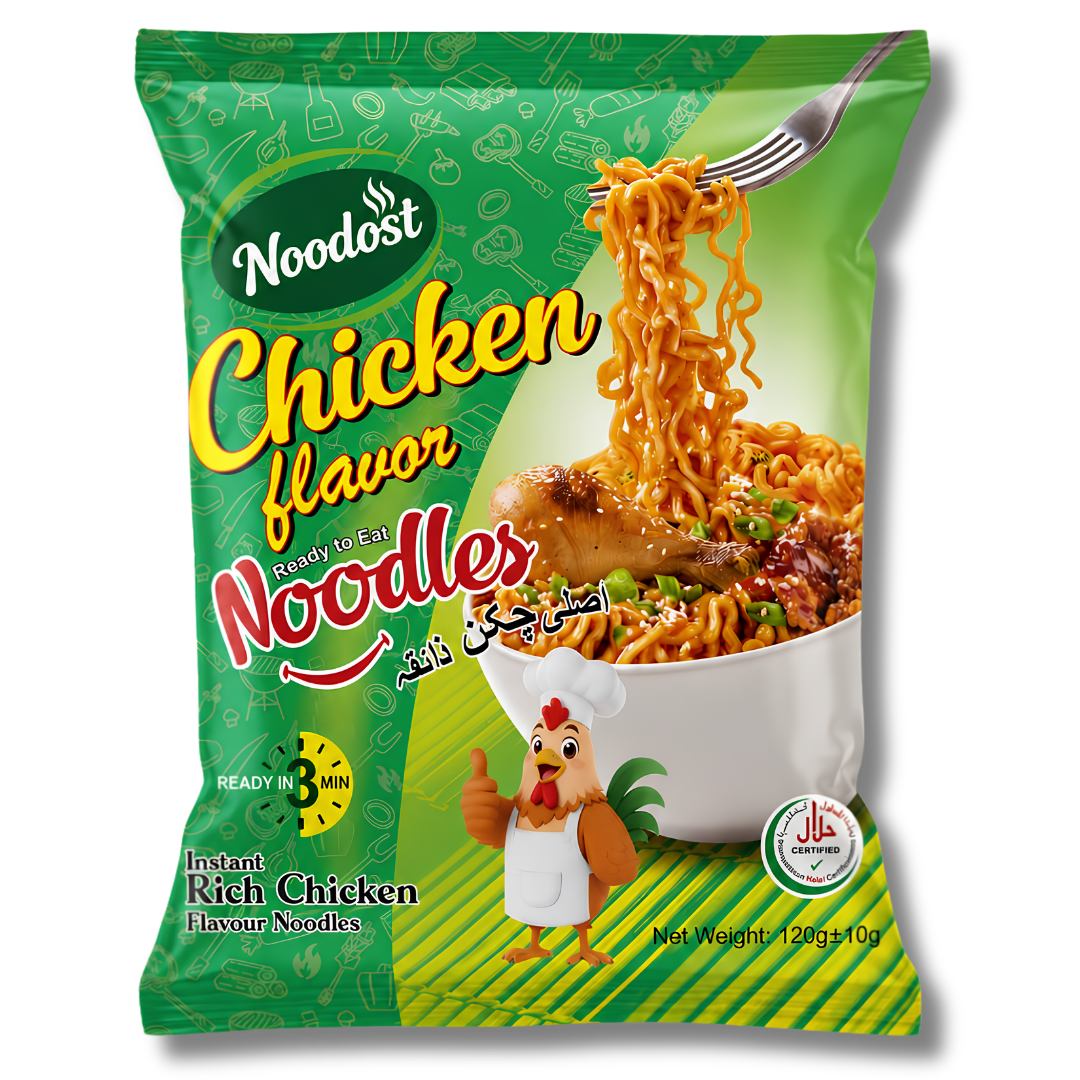
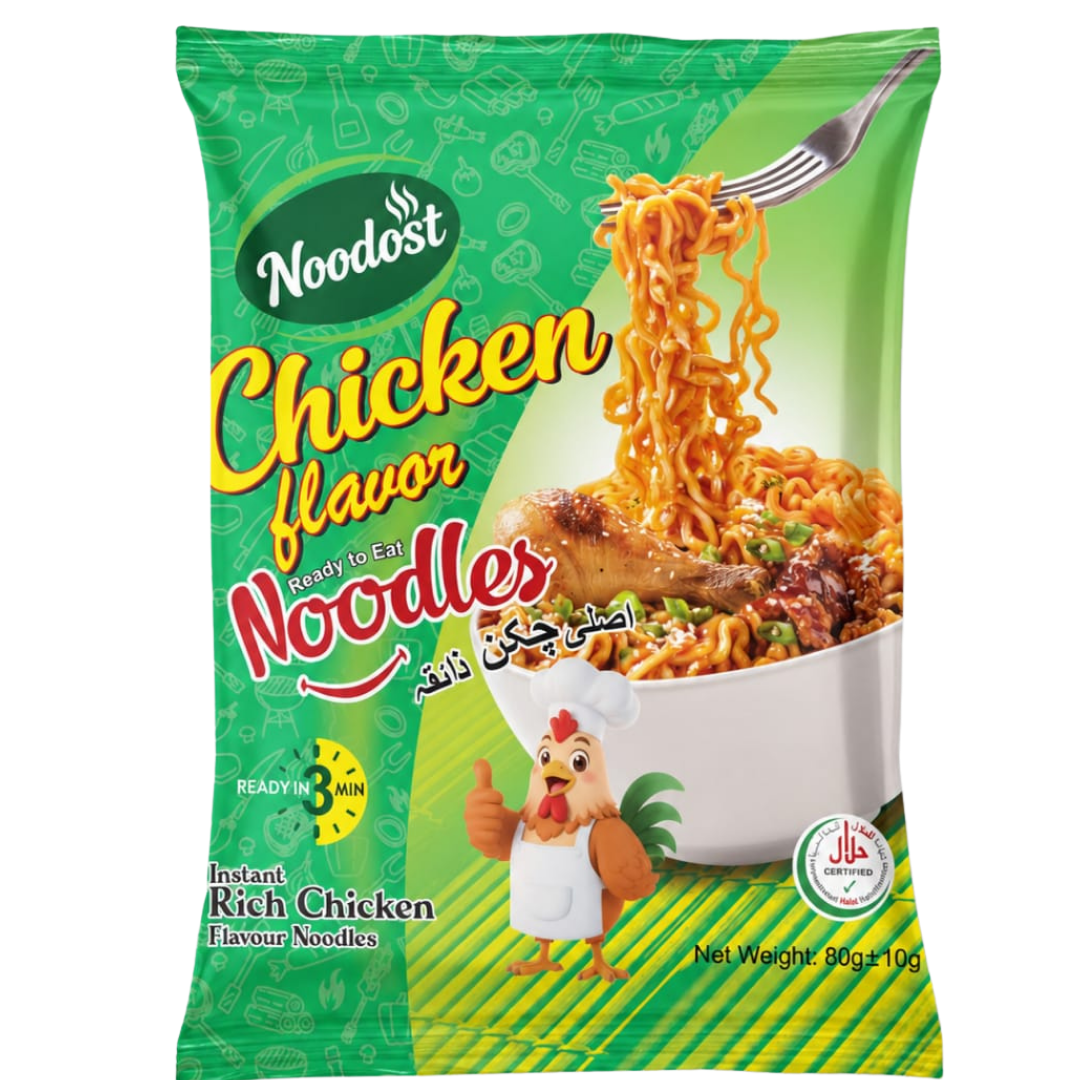
add more products

diff --git a/src/lib/products.ts b/src/lib/products.ts
@@ -34,13 +34,17 @@ import worldChickenImg from "@/assets/world-chicken.jpg";
 import worldBeefImg from "@/assets/world-beef.jpg";
 import worldSpicyImg from "@/assets/world-spicy.jpg";
 import productSpicyImg from "@/assets/product-spicy.png";
-// import noodostChickenAsset from "@/assets/noodost-spicy-chicken.png.asset.json";
-// import noodostBeefAsset from "@/assets/noodost-spicy-beef.png.asset.json";
 import noodostChickenAsset from "@/assets/noodost-spicy-chicken.png";
 import noodostBeefAsset from "@/assets/noodost-spicy-beef.png";
 import chickenFlavorAsset from "@/assets/noodost-chicken-flavor.png";
 import spicyCurryAsset from "@/assets/noodost-spicy-curry.png";
 import beefFlavorAsset from "@/assets/noodost-beef-flavor.png";
+import spicyCurryAsset120g from "@/assets/noodost-spicy-curry_120g.png";
+import beefFlavorAsset120g from "@/assets/noodost-beef_120g.png";
+import chickenFlavorAsset120g from "@/assets/noodost-chicken_120g.png";
+import noodostBeefAsset120g from "@/assets/noodost-spicy-beef_120g.png";
+import noodostChickenAsset120g from "@/assets/noodost-spicy-chicken_120g.png";
+
 
 export const FLAVORS: Record<FlavorSlug, Flavor> = {
   chicken: {
@@ -94,14 +98,15 @@ export const FLAVOR_LIST: Flavor[] = [FLAVORS.chicken, FLAVORS.beef, FLAVORS.spi
 
 export const PRODUCTS: Product[] = [
   { slug: "spicy-chicken-noodles", flavor: "chicken", name: "Spicy Chicken Noodles", blurb: "Instant rich chicken flavour noodles — ready in 3 minutes. 80g pack.", price: 80, image: noodostChickenAsset, badge: "Most Loved" },
-  { slug: "spicy-beef-noodles", flavor: "beef", name: "Spicy Beef Noodles", blurb: "Instant rich beef flavour noodles — ready in 3 minutes. 80g pack.", price: 80, image: noodostBeefAsset, badge: "New" },
-  // { slug: "chicken-family-pack", flavor: "chicken", name: "Spicy Chicken Family Pack", blurb: "A family-size bundle of our chicken noodles.", price: 280, image: noodostChickenAsset, comingSoon: true },
-  // { slug: "beef-family-pack", flavor: "beef", name: "Spicy Beef Family Pack", blurb: "Boss-level savoury noodles in a family bundle.", price: 280, image: noodostBeefAsset, comingSoon: true },
-  // { slug: "rocket-fuel-cup", flavor: "spicy", name: "2X Spicy Masala Noodles", blurb: "Three-alarm spice with a smoky finish.", price: 60, image: productSpicyImg, comingSoon: true },
-  // { slug: "volcano-mega-pack", flavor: "spicy", name: "Volcano Mega Pack", blurb: "Six bowls of fiery, slurpable adventure.", price: 320, image: productSpicyImg, comingSoon: true },
-  { slug: "chicken-flavor-noodles", flavor: "chicken", name: "Rich Chicken Flavor Noodles", blurb: "Classic rich chicken flavour — 120g family pack. Ready in 3 minutes.", price: 80, image: chickenFlavorAsset, comingSoon: true },
+  { slug: "spicy-beef-noodles", flavor: "beef", name: "Spicy Beef Noodles", blurb: "Instant rich beef flavour noodles — ready in 3 minutes. 80g pack.", price: 80, image: noodostBeefAsset, badge: "Most loved" },
+  { slug: "spicy-chicken-noodles-120g", flavor: "chicken", name: "Spicy Chicken Noodles", blurb: "Instant rich chicken flavour noodles — ready in 3 minutes. 120g pack.", price: 120, image: noodostChickenAsset120g, badge: "Most Loved" , comingSoon: true },
+  { slug: "spicy-beef-noodles_120g", flavor: "beef", name: "Spicy Beef Noodles", blurb: "Instant rich beef flavour noodles — ready in 3 minutes. 120g pack.", price: 120, image: noodostBeefAsset120g, badge: "Most loved", comingSoon: true  },
+  { slug: "chicken-flavor-noodles", flavor: "chicken", name: "Rich Chicken Flavor Noodles", blurb: "Classic rich chicken flavour — 80g family pack. Ready in 3 minutes.", price: 80, image: chickenFlavorAsset, comingSoon: true },
+  { slug: "chicken-flavor-noodles-120g", flavor: "chicken", name: "Rich Chicken Flavor Noodles", blurb: "Classic rich chicken flavour — 120g family pack. Ready in 3 minutes.", price: 120, image: chickenFlavorAsset120g, comingSoon: true },
   { slug: "beef-flavor-noodles", flavor: "beef", name: "Rich Beef Flavor Noodles", blurb: "Deep savoury beef flavour — 80g pack. Ready in 3 minutes.", price: 80, image: beefFlavorAsset, comingSoon: true },
+  { slug: "beef-flavor-noodles-120g", flavor: "beef", name: "Rich Beef Flavor Noodles", blurb: "Deep savoury beef flavour — 120g pack. Ready in 3 minutes.", price: 120, image: beefFlavorAsset120g, comingSoon: true },
   { slug: "spicy-curry-noodles", flavor: "spicy", name: "Spicy Curry Noodles 2X", blurb: "Double the heat — rich masala curry, 80g pack. Ready in 3 minutes.", price: 80, image: spicyCurryAsset, comingSoon: true },
+  { slug: "spicy-curry-noodles-120g", flavor: "spicy", name: "Spicy Curry Noodles 2X", blurb: "Double the heat — rich masala curry, 120g pack. Ready in 3 minutes.", price: 120, image: spicyCurryAsset120g, comingSoon: true },
 ];
 
 export function getProduct(slug: string) {

diff --git a/src/components/SiteHeader.tsx b/src/components/SiteHeader.tsx
@@ -39,14 +39,18 @@ export function SiteHeader() {
           <Link to="/" className="transition-colors hover:text-chicken-dark" activeOptions={{ exact: true }} activeProps={{ className: "text-chicken-dark" }}>
             Home
           </Link>
-          <Link to="/world/$slug" params={{ slug: "chicken" }} className="transition-colors hover:text-chicken-dark">
+          <Link to="/world/$slug" params={{ slug: "chicken" }} className="transition-colors hover:text-chicken-dark" activeProps={{ className: "text-chicken-dark" }}>
             Worlds
           </Link>
           <Link to="/our-vision" className="transition-colors hover:text-chicken-dark" activeProps={{ className: "text-chicken-dark" }}>
             Our Vision
           </Link>
-          <a href="/#featured" className="transition-colors hover:text-chicken-dark">Shop</a>
-          <a href="/#why" className="transition-colors hover:text-chicken-dark">Why Us</a>
+          <Link to="/products" className="transition-colors hover:text-chicken-dark" activeProps={{ className: "text-chicken-dark" }}>
+            Shop
+          </Link>
+          <Link to="/contact" className="transition-colors hover:text-chicken-dark" activeProps={{ className: "text-chicken-dark" }}>
+            contact
+          </Link>
         </nav>
 
         <button